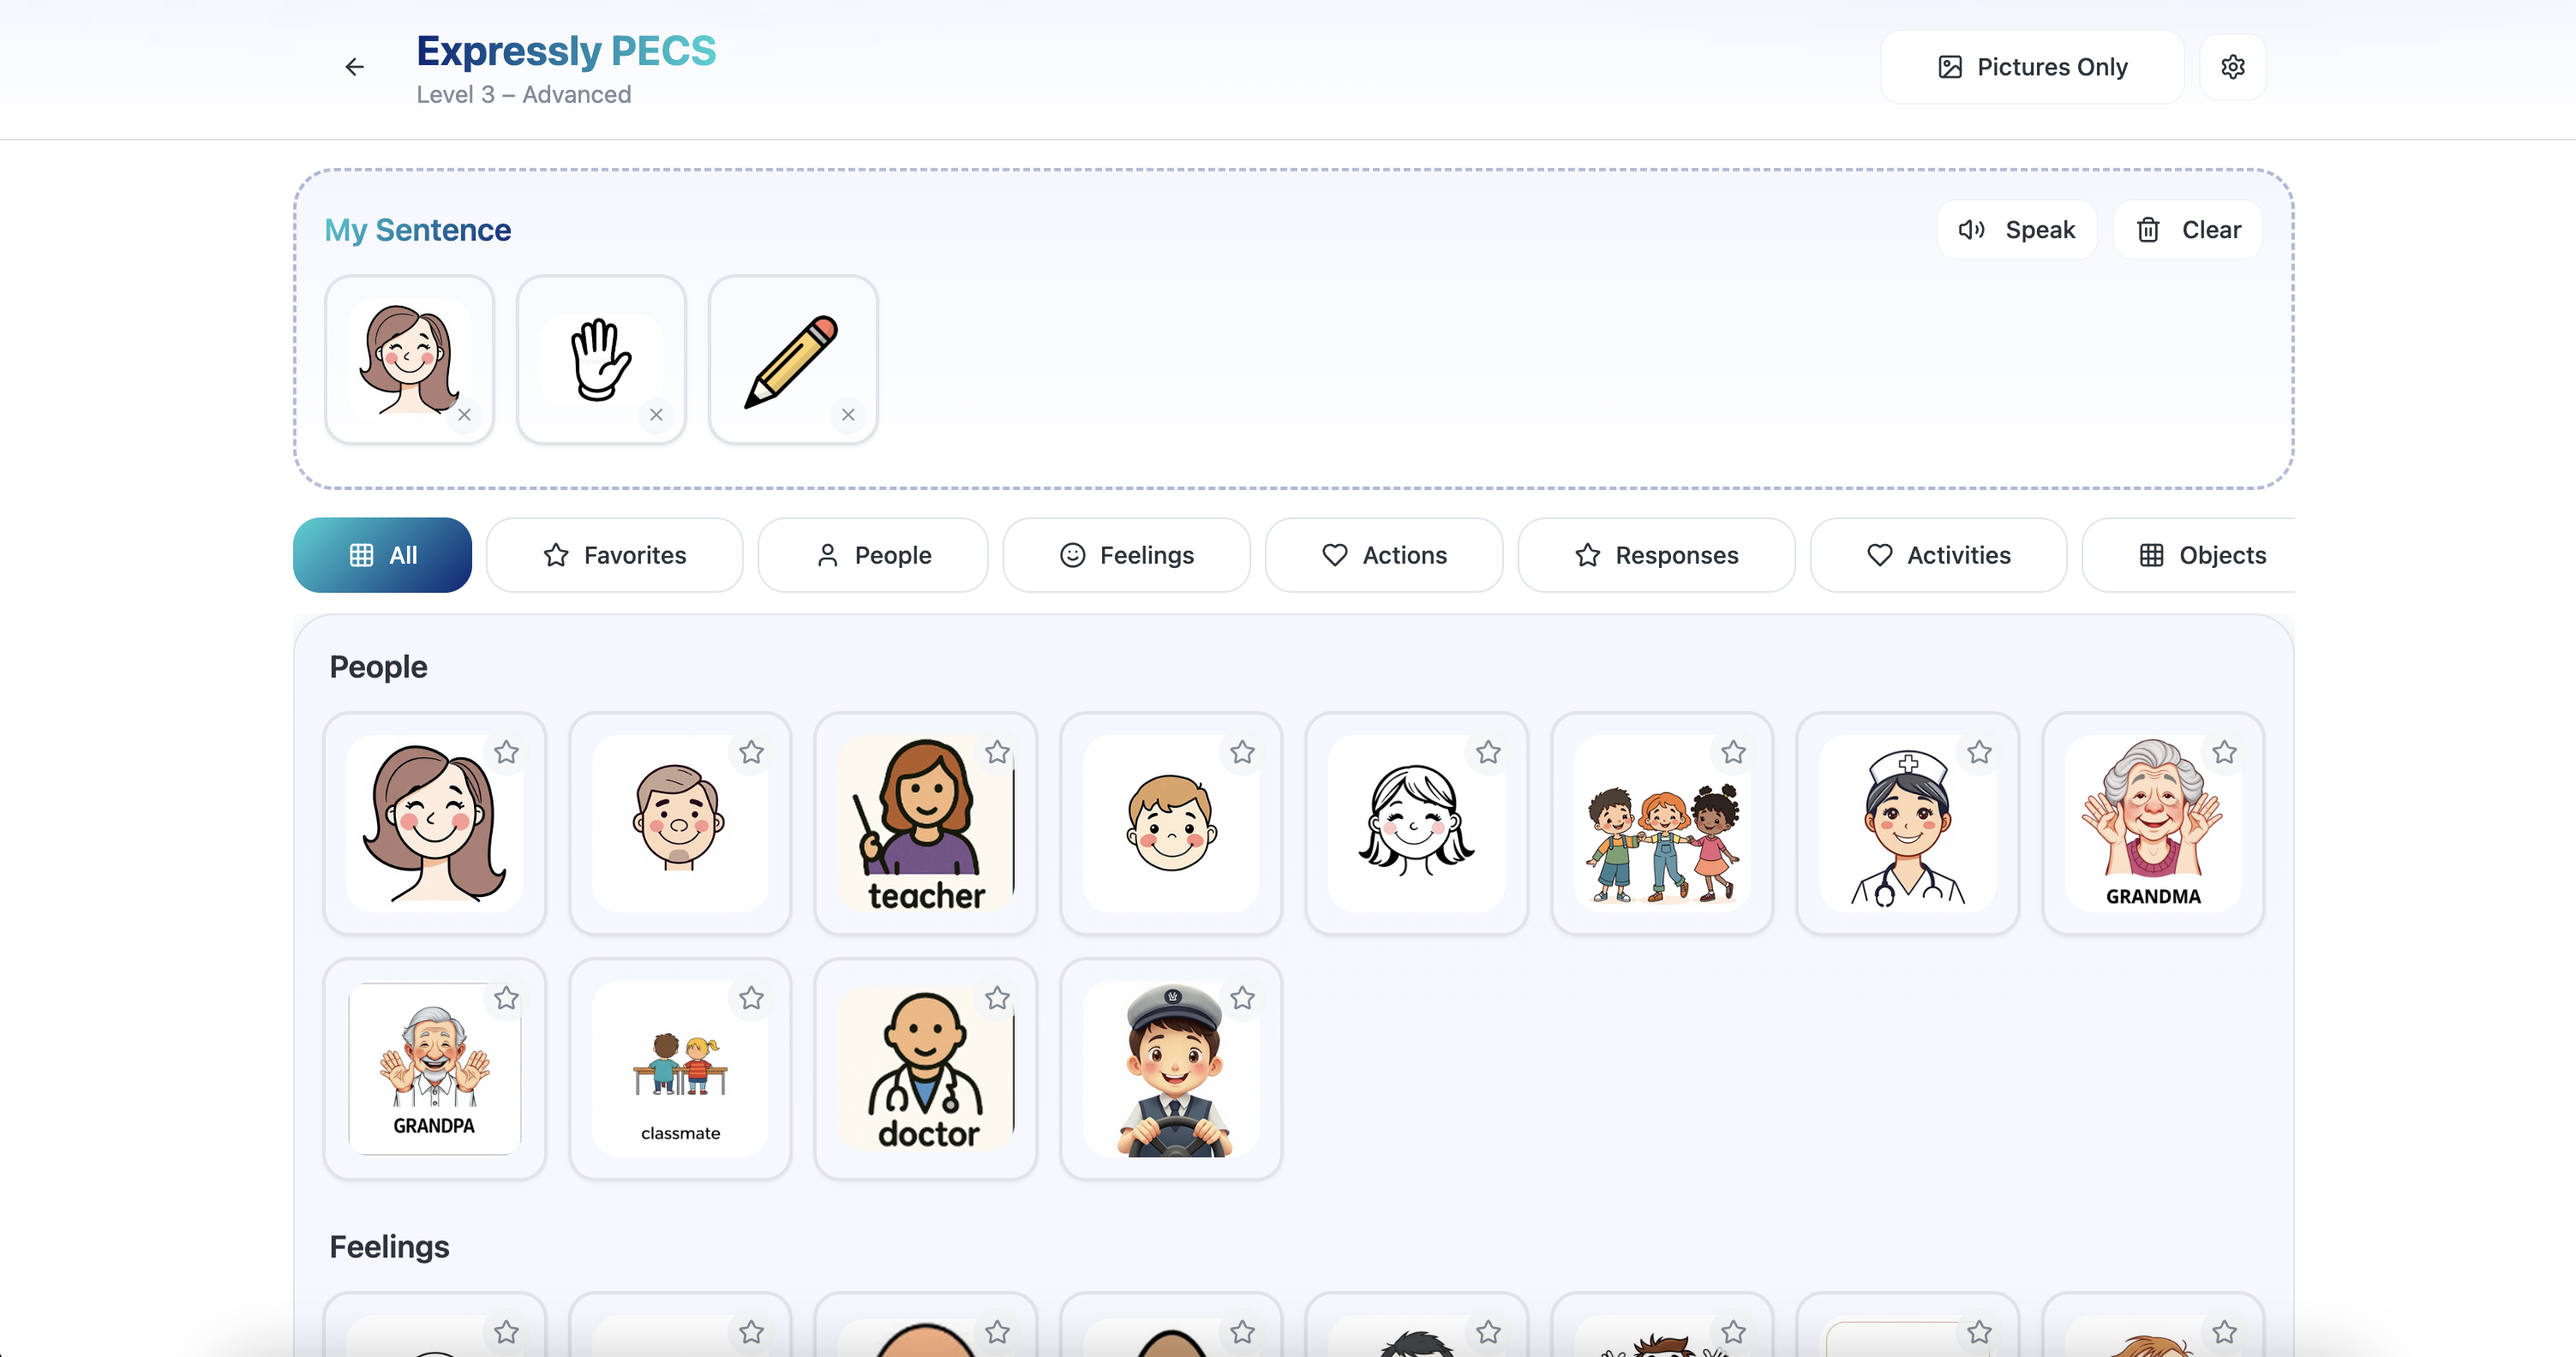
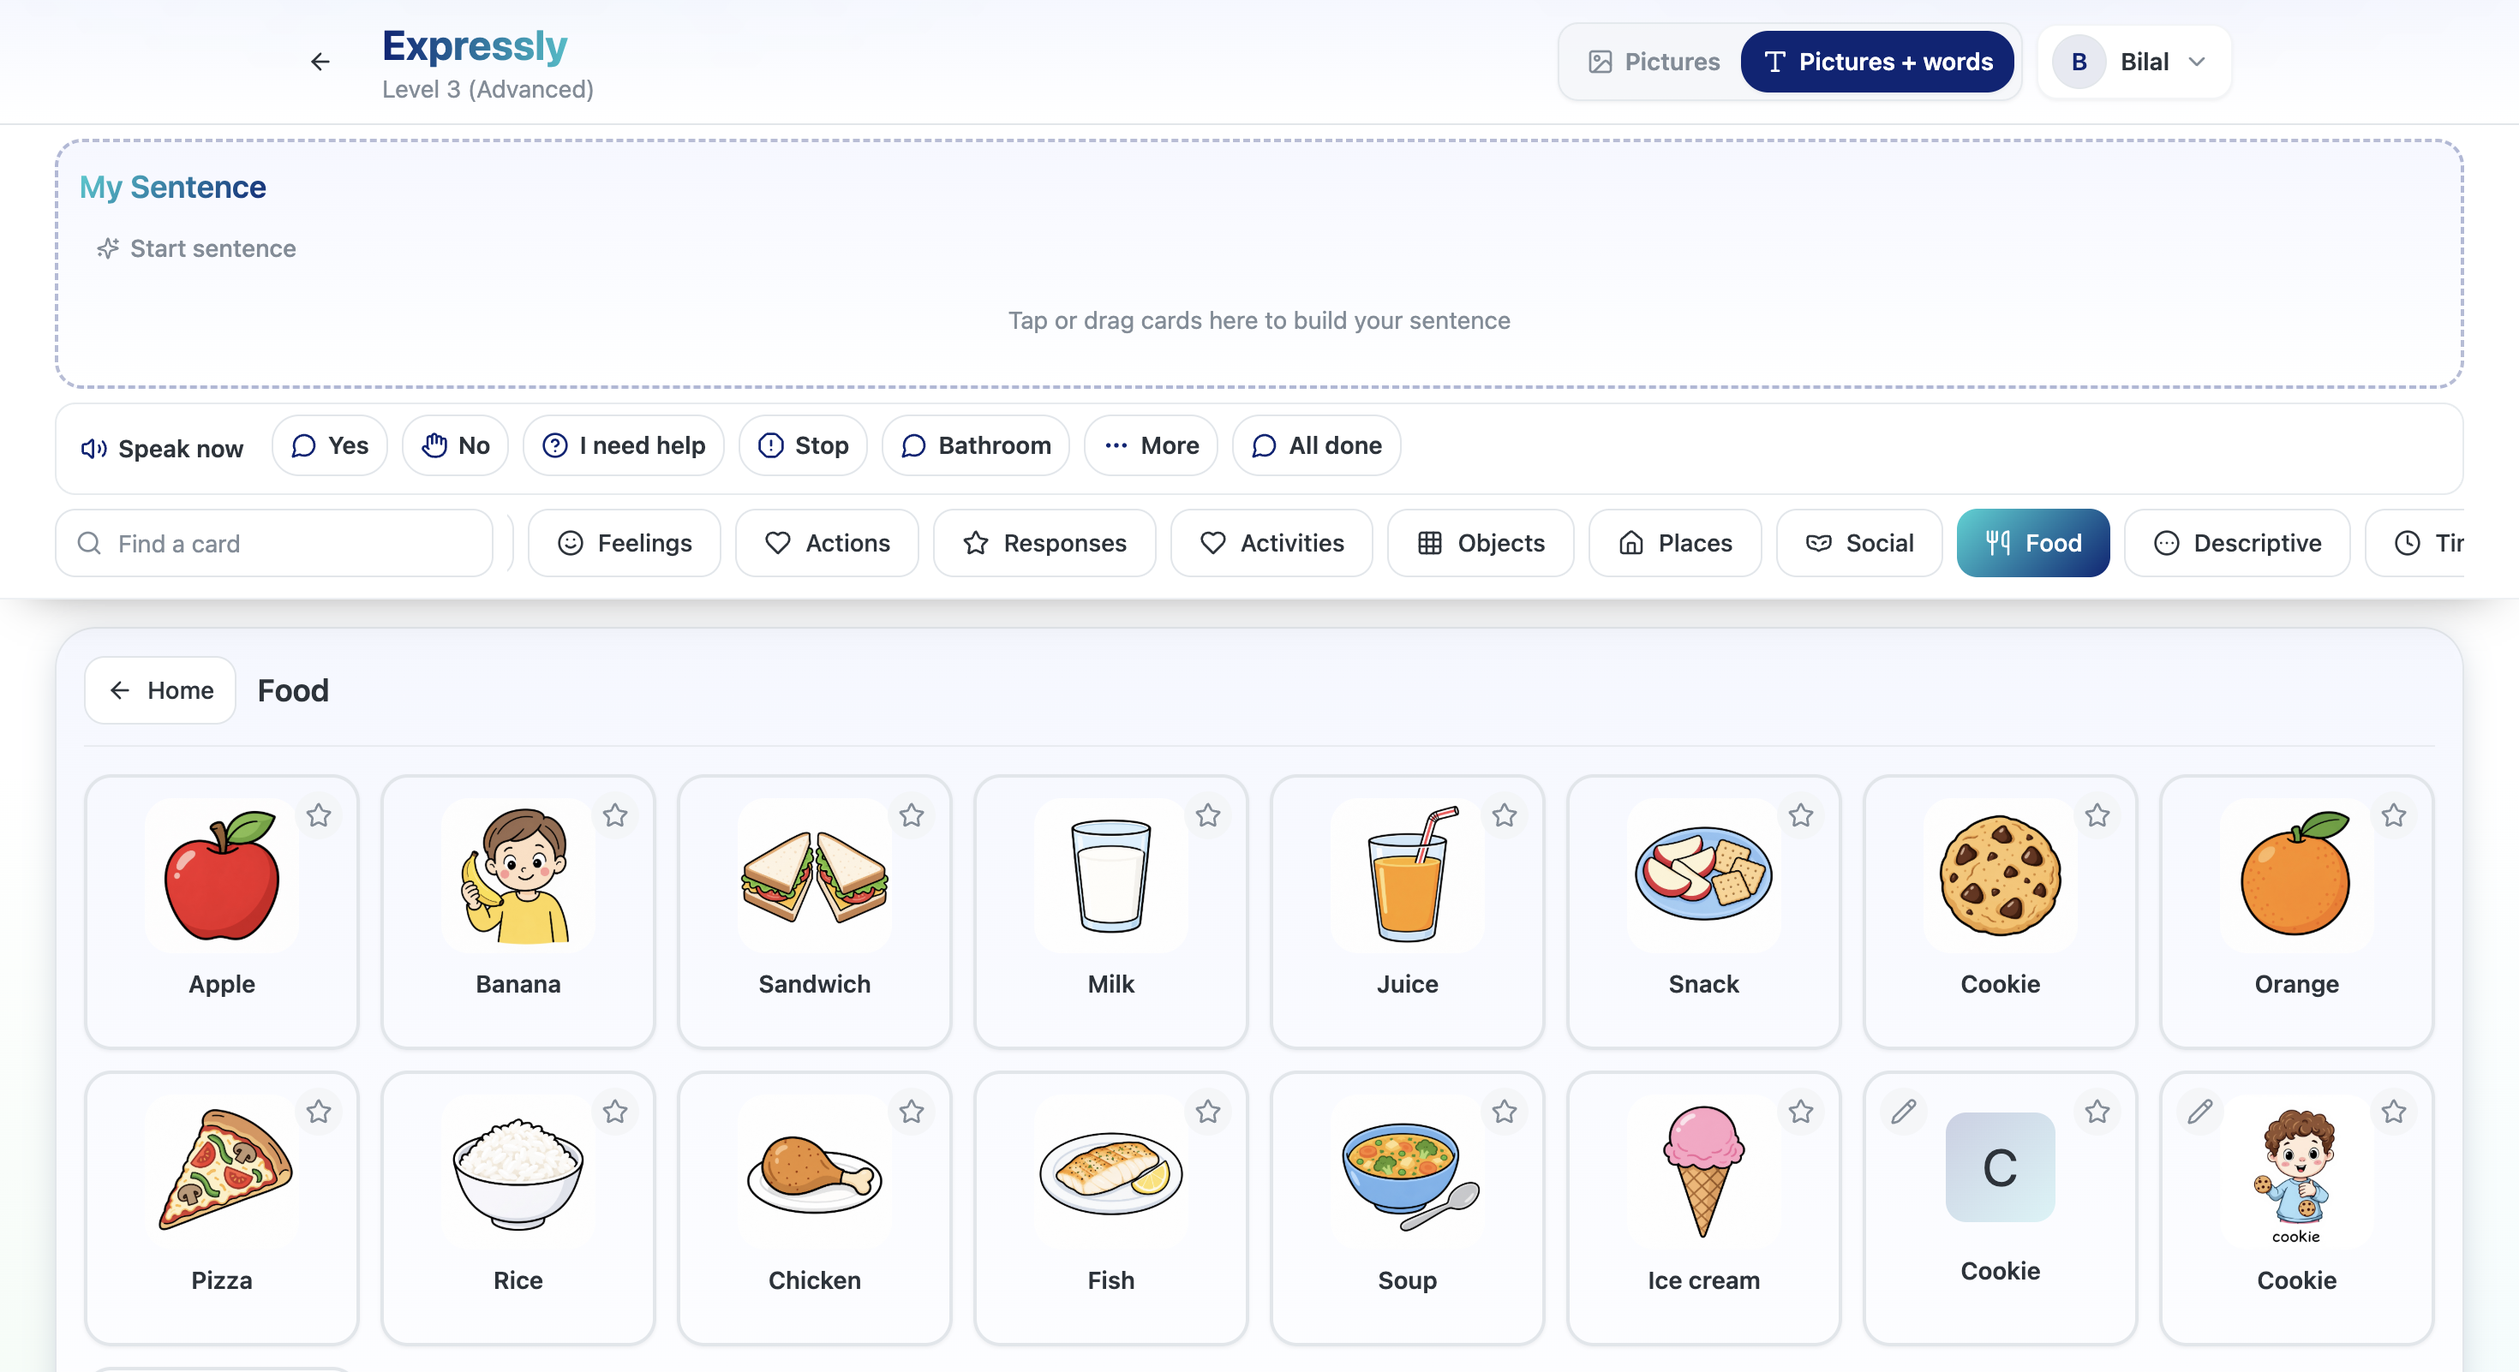
Add a clearer parent sign-in flow

diff --git a/src/components/pecs/ParentAccountDialog.tsx b/src/components/pecs/ParentAccountDialog.tsx
@@ -72,8 +72,12 @@ export const ParentAccountDialog = ({ open, onOpenChange }: ParentAccountDialogP
   const handlePasswordSubmit = async (event: FormEvent) => {
     event.preventDefault();
     const address = email.trim();
-    if (!address || password.length < 8) {
-      setMessage("Use a valid email and a password with at least 8 characters.");
+    if (!address || !password) {
+      setMessage("Enter your email and password.");
+      return;
+    }
+    if (view === "sign-up" && password.length < 8) {
+      setMessage("Use a password with at least 8 characters.");
       return;
     }
     if (view === "sign-up" && password !== confirmPassword) {
@@ -213,9 +217,23 @@ export const ParentAccountDialog = ({ open, onOpenChange }: ParentAccountDialogP
           <div className="mb-2 flex h-11 w-11 items-center justify-center rounded-xl bg-primary/10 text-primary">
             <ShieldCheck className="h-5 w-5" />
           </div>
-          <DialogTitle>Parent account</DialogTitle>
+          <DialogTitle>
+            {user && view !== "reset"
+              ? "Your account"
+              : view === "sign-up"
+                ? "Create your account"
+                : view === "forgot"
+                  ? "Reset your password"
+                  : view === "reset"
+                    ? "Choose a new password"
+                    : "Sign in to Expressly"}
+          </DialogTitle>
           <DialogDescription>
-            Keep learner settings and progress private and available across devices.
+            {view === "sign-up"
+              ? "Save learner settings and progress across devices."
+              : view === "forgot" || view === "reset"
+                ? "We’ll help you get back into your account."
+                : "Access saved learner settings and progress."}
           </DialogDescription>
         </DialogHeader>
 
@@ -269,22 +287,6 @@ export const ParentAccountDialog = ({ open, onOpenChange }: ParentAccountDialogP
           </form>
         ) : (
           <form className="space-y-4" onSubmit={handlePasswordSubmit}>
-            <div className="grid grid-cols-2 gap-1 rounded-xl bg-muted p-1" aria-label="Parent account options">
-              <button
-                type="button"
-                onClick={() => changeView("sign-in")}
-                className={`rounded-lg px-3 py-2 text-sm font-medium transition-colors ${view === "sign-in" ? "bg-background shadow-sm" : "text-muted-foreground"}`}
-              >
-                Sign in
-              </button>
-              <button
-                type="button"
-                onClick={() => changeView("sign-up")}
-                className={`rounded-lg px-3 py-2 text-sm font-medium transition-colors ${view === "sign-up" ? "bg-background shadow-sm" : "text-muted-foreground"}`}
-              >
-                Create account
-              </button>
-            </div>
             <div className="space-y-2">
               <FieldLabel>Email</FieldLabel>
               <EmailField email={email} setEmail={setEmail} />
@@ -313,6 +315,16 @@ export const ParentAccountDialog = ({ open, onOpenChange }: ParentAccountDialogP
             )}
             <p className="text-xs leading-relaxed text-muted-foreground">
               This account belongs to the parent or caregiver. The learner does not need an email.
+            </p>
+            <p className="text-center text-sm text-muted-foreground">
+              {view === "sign-up" ? "Already have an account? " : "Don’t have an account? "}
+              <button
+                type="button"
+                onClick={() => changeView(view === "sign-up" ? "sign-in" : "sign-up")}
+                className="font-semibold text-primary hover:underline focus-visible:outline-none focus-visible:ring-2 focus-visible:ring-ring"
+              >
+                {view === "sign-up" ? "Sign in" : "Sign up"}
+              </button>
             </p>
           </form>
         )}
@@ -362,10 +374,10 @@ const PasswordFields = ({ password, confirmPassword, setPassword, setConfirmPass
           type="password"
           autoComplete={includeConfirmation ? "new-password" : "current-password"}
           required
-          minLength={8}
+          minLength={includeConfirmation ? 8 : undefined}
           value={password}
           onChange={(event) => setPassword(event.target.value)}
-          placeholder="At least 8 characters"
+          placeholder={includeConfirmation ? "At least 8 characters" : "Password"}
           className="h-11 w-full rounded-xl border border-border bg-background pl-10 pr-3 text-sm outline-none ring-offset-background focus:ring-2 focus:ring-ring"
         />
       </div>

diff --git a/src/pages/PecsApp.tsx b/src/pages/PecsApp.tsx
@@ -1,6 +1,6 @@
 // src/pages/PecsApp.tsx
 import { useEffect, useLayoutEffect, useRef, useState } from "react";
-import { useNavigate } from "react-router-dom";
+import { useNavigate, useSearchParams } from "react-router-dom";
 import { SentenceBuilder } from "@/components/pecs/SentenceBuilder";
 import { CardGrid } from "@/components/pecs/CardGrid";
 import { CategoryTabs } from "@/components/pecs/CategoryTabs";
@@ -24,7 +24,9 @@ export interface Card {
 const PecsApp = () => {
   const [selectedCategory, setSelectedCategory] = useState<string>("home");
   const [showSettings, setShowSettings] = useState(false);
-  const [showParentAccount, setShowParentAccount] = useState(false);
+  const [searchParams, setSearchParams] = useSearchParams();
+  const accountRequested = searchParams.get("account") === "sign-in";
+  const [showParentAccount, setShowParentAccount] = useState(accountRequested);
   const [searchQuery, setSearchQuery] = useState("");
   const navigate = useNavigate();
 
@@ -34,6 +36,19 @@ const PecsApp = () => {
     document.documentElement.classList.toggle("low-stimulation", lowStimulationMode);
     return () => document.documentElement.classList.remove("low-stimulation");
   }, [lowStimulationMode]);
+
+  useEffect(() => {
+    if (accountRequested) setShowParentAccount(true);
+  }, [accountRequested]);
+
+  const handleParentAccountChange = (open: boolean) => {
+    setShowParentAccount(open);
+    if (!open && accountRequested) {
+      const nextParams = new URLSearchParams(searchParams);
+      nextParams.delete("account");
+      setSearchParams(nextParams, { replace: true });
+    }
+  };
 
   const hasCompletedOnboarding = useCardStore((state) => state.onboardingComplete);
 
@@ -92,7 +107,15 @@ const PecsApp = () => {
 
   // ✅ SHOW ONBOARDING FIRST
   if (!hasCompletedOnboarding) {
-    return <Onboarding />;
+    return (
+      <>
+        <Onboarding />
+        <ParentAccountDialog
+          open={showParentAccount}
+          onOpenChange={handleParentAccountChange}
+        />
+      </>
+    );
   }
 
   return (
@@ -160,7 +183,7 @@ const PecsApp = () => {
       />
       <ParentAccountDialog
         open={showParentAccount}
-        onOpenChange={setShowParentAccount}
+        onOpenChange={handleParentAccountChange}
       />
     </div>
   );

diff --git a/src/components/Navbar.tsx b/src/components/Navbar.tsx
@@ -16,6 +16,7 @@ const Navbar = () => {
           <a href="#how-it-works" className="text-sm font-medium text-muted-foreground hover:text-foreground">How it works</a>
           <a href="#features" className="text-sm font-medium text-muted-foreground hover:text-foreground">Features</a>
           <Link to="/about" className="text-sm font-medium text-muted-foreground hover:text-foreground">About</Link>
+          <Link to="/pecs-app?account=sign-in" className="text-sm font-medium text-muted-foreground hover:text-foreground">Sign in</Link>
           <Link to="/pecs-app" className="rounded-full bg-primary px-5 py-2.5 text-sm font-semibold text-primary-foreground">Open app</Link>
         </div>
         <button type="button" aria-label={open ? "Close menu" : "Open menu"} onClick={() => setOpen((value) => !value)} className="rounded-xl border border-border p-2 md:hidden">
@@ -28,6 +29,7 @@ const Navbar = () => {
             <a href="#how-it-works" onClick={() => setOpen(false)} className="font-medium">How it works</a>
             <a href="#features" onClick={() => setOpen(false)} className="font-medium">Features</a>
             <Link to="/about" onClick={() => setOpen(false)} className="font-medium">About</Link>
+            <Link to="/pecs-app?account=sign-in" onClick={() => setOpen(false)} className="font-medium">Sign in</Link>
             <Link to="/pecs-app" onClick={() => setOpen(false)} className="mt-1 rounded-full bg-primary px-5 py-3 text-center font-semibold text-primary-foreground">Open app</Link>
           </div>
         </div>

diff --git a/src/pages/Index.tsx b/src/pages/Index.tsx
@@ -49,7 +49,7 @@ const Index = () => {
       <section className="overflow-hidden border-b border-border/70 pt-28 md:pt-36">
         <div className="mx-auto grid max-w-7xl items-center gap-14 px-6 pb-20 md:px-10 lg:grid-cols-[0.85fr_1.15fr] lg:pb-28">
           <div className="max-w-xl" data-reveal>
-            <p className="mb-5 text-sm font-semibold uppercase tracking-[0.18em] text-secondary">Picture-based communication</p>
+            <p className="mb-5 text-sm font-semibold uppercase tracking-[0.18em] text-secondary">Picture based communication</p>
             <h1 className="text-5xl font-semibold leading-[1.04] tracking-[-0.045em] md:text-7xl">Say what you mean, one picture at a time.</h1>
             <p className="mt-7 max-w-lg text-lg leading-8 text-muted-foreground md:text-xl">Expressly helps visual communicators choose pictures, build a message, and share it clearly.</p>
             <div className="mt-9 flex flex-col gap-3 sm:flex-row">
